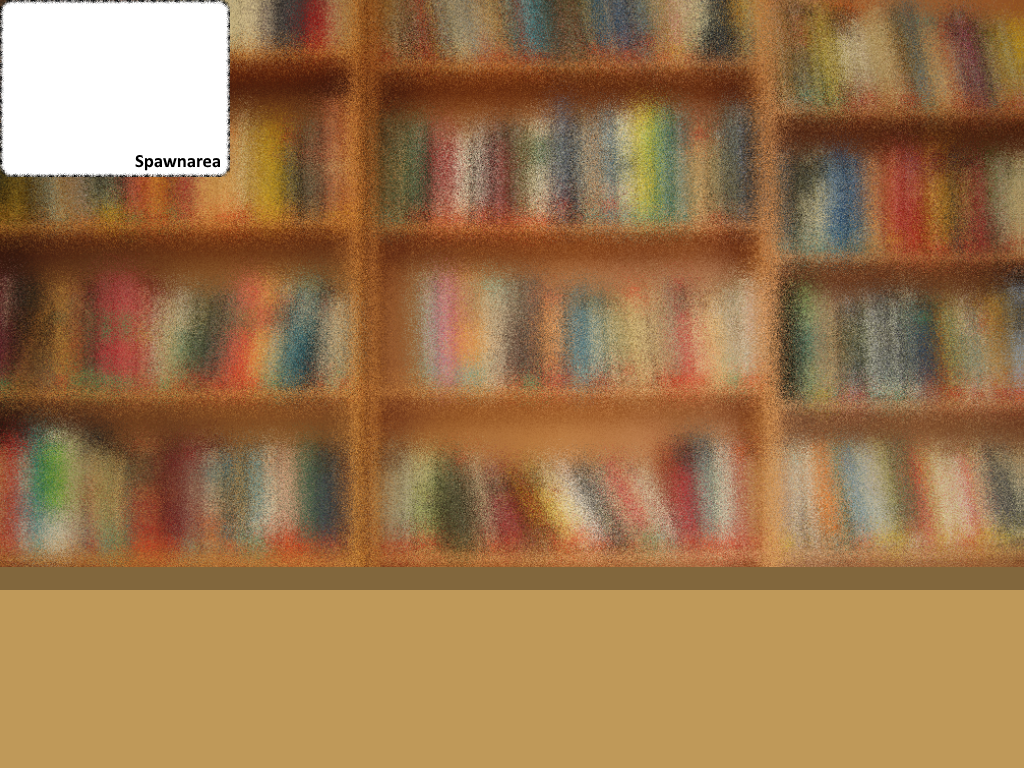
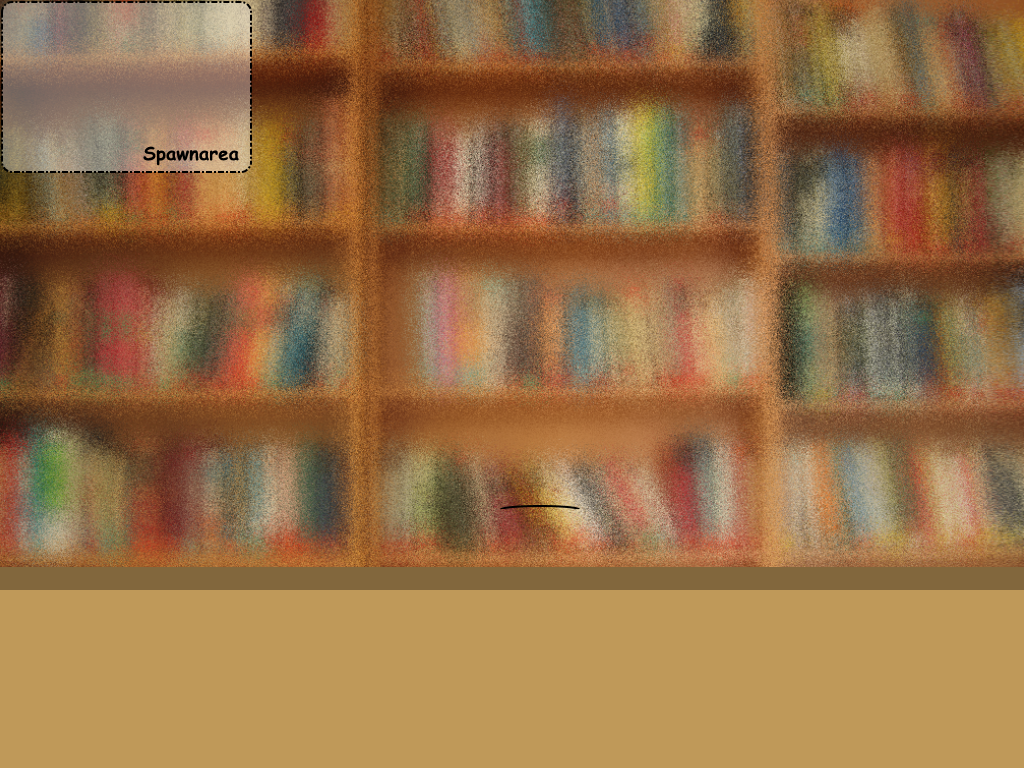
New Background, Tutorial and Spawnarea

diff --git a/Game/gui.cpp b/Game/gui.cpp
@@ -701,7 +701,7 @@ void GUI::help()
     QFont secondCFont("comic sans", 18);
     secondCap->setFont(secondCFont);
     int secondCxPos = 80;
-    int secondCyPos = 365;
+    int secondCyPos = 335; //+35 für Maxi Version, da Verschiebung
     secondCap->setPos(secondCxPos,secondCyPos);
     scene -> addItem(secondCap);
 
@@ -710,21 +710,21 @@ void GUI::help()
 
     picButton* boxButton = new picButton(QPixmap(":/pic/block_bttn_h.png"), QPixmap(":/pic/block_bttn.png"));
     int blockxPos = 220;
-    int blockyPos = 370;
+    int blockyPos = 340; //+35 für Maxi Version, da Verschiebung
     boxButton->move(blockxPos,blockyPos);
     connect(boxButton, SIGNAL(clicked()), this, SLOT(box()), Qt::QueuedConnection);
     scene->addWidget(boxButton);
 
     picButton* circleButton = new picButton(QPixmap(":/pic/circle_bttn_h.png"), QPixmap(":/pic/circle_bttn.png"));
     int circlexPos = 400;
-    int circleyPos = 370;
+    int circleyPos = 340; //+35 für Maxi Version, da Verschiebung
     circleButton->move(circlexPos,circleyPos);
     connect(circleButton, SIGNAL(clicked()), this, SLOT(circle()), Qt::QueuedConnection);
     scene->addWidget(circleButton);
 
     picButton* triangleButton = new picButton(QPixmap(":/pic/triangle_bttn_h.png"), QPixmap(":/pic/triangle_bttn.png"));
     int trianglexPos = 580;
-    int triangleyPos = 370;
+    int triangleyPos = 340; //+35 für Maxi Version, da Verschiebung
     triangleButton->move(trianglexPos,triangleyPos);
     connect(triangleButton, SIGNAL(clicked()), this, SLOT(triangle()), Qt::QueuedConnection);
     scene->addWidget(triangleButton);

diff --git a/Game/level_1.cpp b/Game/level_1.cpp
@@ -390,7 +390,7 @@ void Level_1::saveLevel()
 void Level_1::showLevel(){
     //set Background Image
 
-     QPixmap background(":/pic/Game_background_spwn.png");
+     QPixmap background(":/pic/Game_background_tut.png");
      background.scaled(QSize(1021,766));
      backgnd = level->addPixmap(background);
      backgnd->setPos(0,0); //Set Graphic to top left corner
